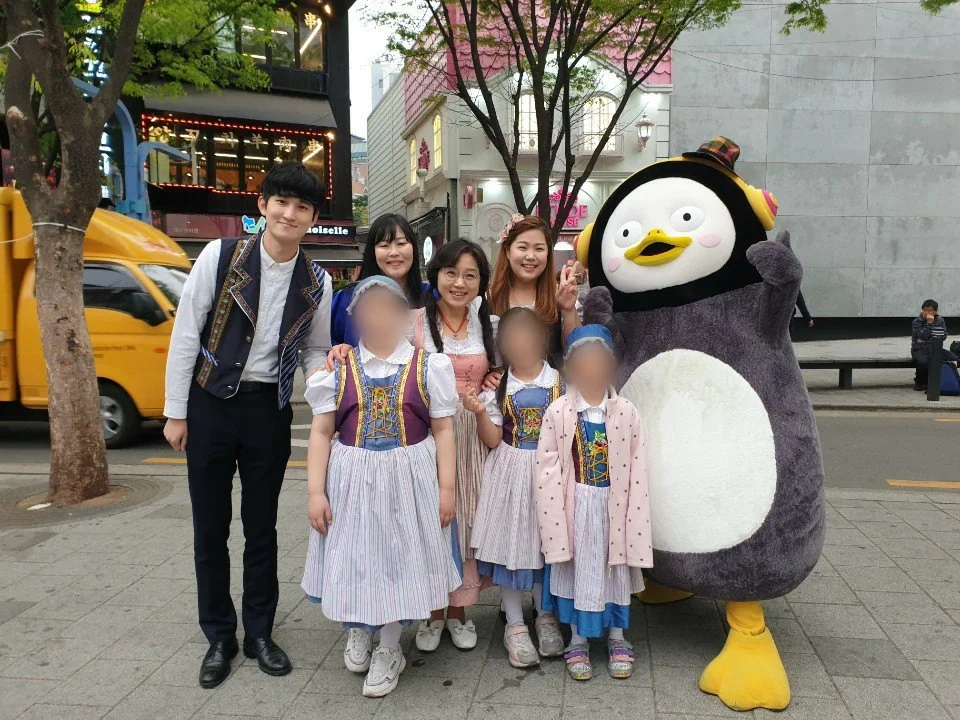
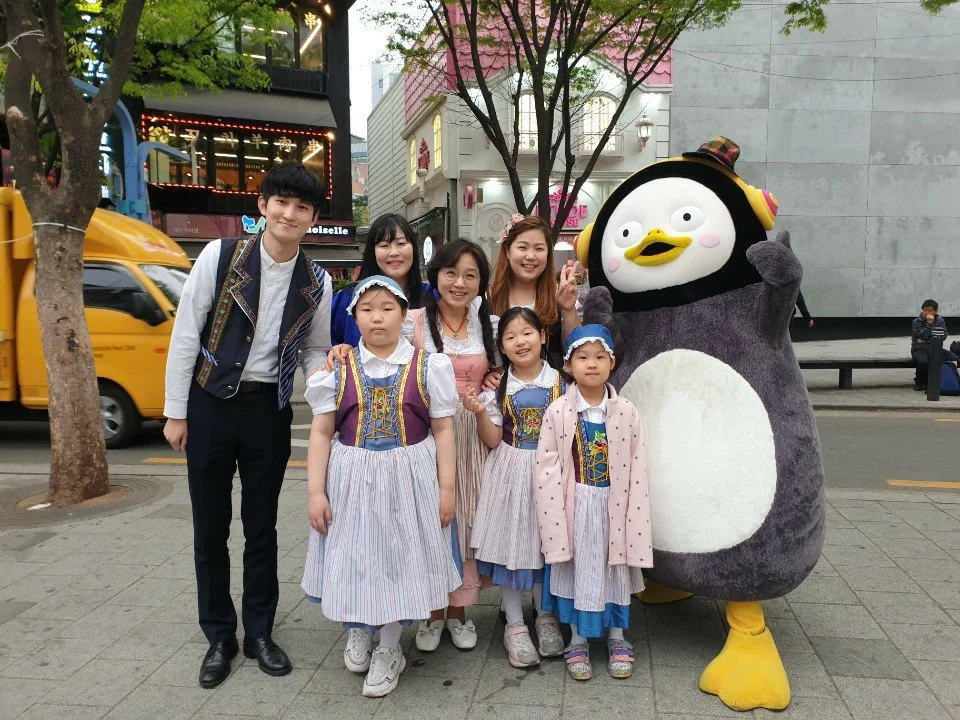
개척형 크리에이터: 홍대 사진 블러 원복, 타임라인 '업로드 완료'·일수 배지 삭제, 요들행님 문장 수정
- 펭수 홍대 공연 사진: 요청에 따라 어린이 얼굴 블러 해제(원본으로 교체), 대체 텍스트 정리
- M/V 제작 타임라인: finish '업로드 완료' 행과 7일·2일 배지, 관련 CSS 삭제
- 02장 카드: "'요들언니'와 재야의 고수 '요들행님'을 만났습니다."

Changed region(s): [[0.5, 0.4278, 0.6562, 0.55], [0.3438, 0.3667, 0.4375, 0.4889]]

diff --git a/index.html b/index.html
@@ -680,11 +680,9 @@ h1[tabindex="-1"]:focus{outline:none}
 .cv-steps li:not(:last-child)::after{content:"";position:absolute;left:60px;right:0;bottom:0;height:1px;background:var(--cv-lime-line)}
 .cv-steps li::before{content:counter(cvs);position:relative;justify-self:center;display:grid;place-items:center;width:26px;height:26px;border-radius:50%;background:var(--cv-mark);color:var(--cv-mark-ink);
   font-size:12px;font-weight:800;box-shadow:0 0 0 1px var(--cv-lime-line)}
-.cv-steps li:first-child::before,.cv-steps li:last-child::before{width:44px;height:44px;font-size:11.5px;letter-spacing:.02em}
+.cv-steps li:first-child::before{width:44px;height:44px;font-size:11.5px;letter-spacing:.02em}
 .cv-steps li:first-child::before{content:"start"}
-.cv-steps li:last-child::before{content:"finish"}
 .cv-steps b{display:flex;align-items:center;gap:7px;font-size:16px;font-weight:800;letter-spacing:-.03em;color:var(--ink)}
-.cv-steps b i{font-style:normal;font-size:11.5px;font-weight:800;padding:3px 8px;border-radius:999px;background:var(--accent-fill);color:#fff;font-variant-numeric:tabular-nums}
 .cv-steps span{font-size:15px;color:var(--ink-2);line-height:1.6}
 
 /* 05 ON AIR */
@@ -768,7 +766,7 @@ h1[tabindex="-1"]:focus{outline:none}
   .cv-steps::before{left:17px}
   .cv-steps li{grid-template-columns:34px minmax(0,1fr);gap:2px 12px;align-items:start;padding:12px 0}
   .cv-steps li::before{grid-row:1/span 2;align-self:start;width:24px;height:24px;font-size:11px}
-  .cv-steps li:first-child::before,.cv-steps li:last-child::before{width:34px;height:34px;font-size:9.5px}
+  .cv-steps li:first-child::before{width:34px;height:34px;font-size:9.5px}
   .cv-steps li:not(:last-child)::after{left:46px}
   .cv-steps span{grid-column:2;font-size:14.5px}
   .cv-anat{grid-template-columns:minmax(0,1fr)}
@@ -1766,7 +1764,7 @@ h1[tabindex="-1"]:focus{outline:none}
         <img src="assets/img/cv/crew-field.webp" alt="갈대밭에서 기타, 크로마하프, 악기 케이스, 바이올린을 들고 나란히 선 요들 크루와 이홍연" width="1520" height="572" loading="lazy">
         <figcaption class="cv-field__card">
           <h3>'요들러 이홍연'에서<br>'요PD 이홍연'으로</h3>
-          <p>요들의 핵심인 꺾기와 발음이 뜻대로 되지 않자, 요들러 대신 판을 짜는 요PD의 길을 택했습니다. 영상 제작 학원과 요들송 학원을 2년 정도 다니며 요들 크루를 꾸렸고, 우리나라의 숨은 고수 '요들행님'도 만났습니다.</p>
+          <p>요들의 핵심인 꺾기와 발음이 뜻대로 되지 않자, 요들러 대신 판을 짜는 요PD의 길을 택했습니다. 영상 제작 학원과 요들송 학원을 2년 정도 다니며 요들 크루를 꾸렸고, '요들언니'와 재야의 고수 '요들행님'을 만났습니다.</p>
         </figcaption>
       </figure>
     </div>
@@ -1843,9 +1841,8 @@ h1[tabindex="-1"]:focus{outline:none}
             <li><b>장소 선정</b><span>요들 감성에 맞는 안성 팜랜드와 과천 경마공원을 골랐습니다.</span></li>
             <li><b>의상·소품 준비</b><span>스위스 전통 의상을 해외 직구로 구했습니다.</span></li>
             <li><b>촬영</b><span>친구와 함께 짐벌을 들고 찍었습니다.</span></li>
-            <li><b>편집 <i>7일</i></b><span>박진감과 레트로 감성을 살리려 트랜지션을 활용했습니다.</span></li>
-            <li><b>녹음·믹싱 <i>2일</i></b><span>트랙을 나눠 한 소절씩 녹음하고 틀린 음정을 보정했습니다.</span></li>
-            <li><b>업로드 완료</b><span>클릭률을 높이려 썸네일과 제목까지 고민했습니다.</span></li>
+            <li><b>편집</b><span>박진감과 레트로 감성을 살리려 트랜지션을 활용했습니다.</span></li>
+            <li><b>녹음·믹싱</b><span>트랙을 나눠 한 소절씩 녹음하고 틀린 음정을 보정했습니다.</span></li>
           </ol>
         </div>
         <figure class="cv-tl__fig">
@@ -1861,7 +1858,7 @@ h1[tabindex="-1"]:focus{outline:none}
         <div class="card cv-onair__txt rv">
           <p>펭수 초창기 홍대 공연을 함께한 인연으로 요들랜드 팀이 MBC 〈마이 리틀 텔레비전〉에 나갔고, 저는 촬영장 비하인드를 찍었습니다. 개그맨과의 콜라보 방송, 아프리카TV 도아TV 합방도 이어졌습니다.</p>
         </div>
-        <figure class="rv"><div class="media" style="aspect-ratio:4/3"><img src="assets/img/yd-hongdae.webp" alt="홍대 거리 공연을 마치고 펭수, 요들 선생님들, 전통의상을 입은 어린이 단원들과 함께 선 이홍연. 어린이 얼굴은 흐리게 처리" width="960" height="720" loading="lazy"></div><figcaption class="cap">EBS 펭수와 홍대 공연 · 2019</figcaption></figure>
+        <figure class="rv"><div class="media" style="aspect-ratio:4/3"><img src="assets/img/yd-hongdae.webp?v=2" alt="홍대 거리 공연을 마치고 펭수, 요들 선생님들, 전통의상을 입은 어린이 단원들과 함께 선 이홍연" width="960" height="720" loading="lazy"></div><figcaption class="cap">EBS 펭수와 홍대 공연 · 2019</figcaption></figure>
         <figure class="rv"><a class="media golink" style="aspect-ratio:4/3" href="https://www.youtube.com/watch?v=fOAehDdIusk" target="_blank" rel="noopener" aria-label="마리텔 촬영장 비하인드 영상 새 창으로 보기"><img src="assets/img/yd-maritel.webp" alt="MBC 마이리틀텔레비전 촬영 현장에서 크리에이터 도티와 손을 흔드는 이홍연" width="1400" height="944" loading="lazy"><span class="go"><svg class="ic" aria-hidden="true"><use href="#i-out"/></svg>영상 보기</span></a><figcaption class="cap">MBC 〈마이 리틀 텔레비전〉 촬영장 비하인드 · 2019</figcaption></figure>
         <figure class="rv"><a class="media golink" style="aspect-ratio:4/3" href="https://www.youtube.com/watch?v=pgG7t-5jhFk" target="_blank" rel="noopener" aria-label="도아TV 합방 영상 새 창으로 보기"><img src="assets/img/yd-doa.webp" alt="아프리카TV 도아TV 합동 방송 화면" width="1299" height="683" loading="lazy"><span class="go"><svg class="ic" aria-hidden="true"><use href="#i-out"/></svg>영상 보기</span></a><figcaption class="cap">아프리카TV 도아TV 합방 · 조회수 49만 회</figcaption></figure>
       </div>
